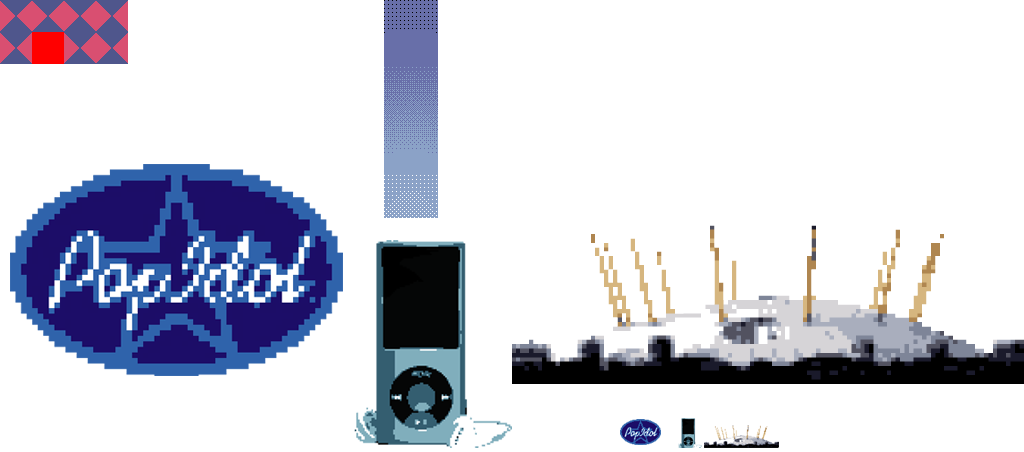
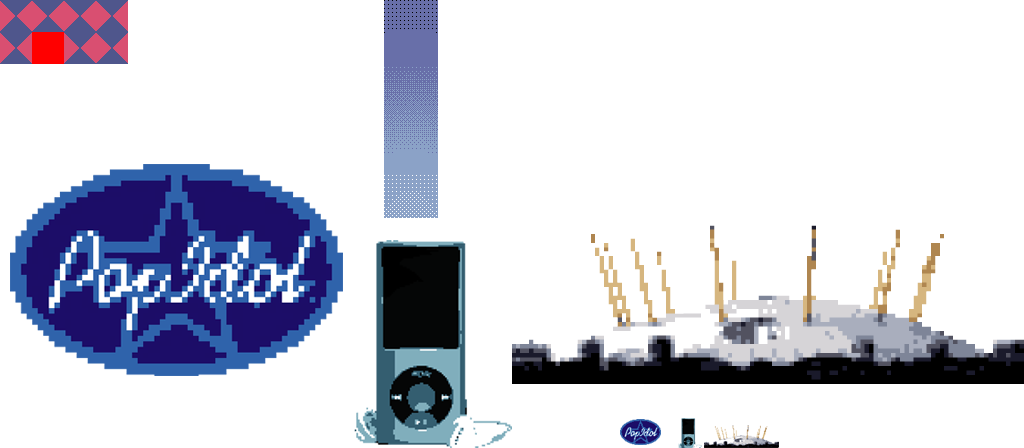
@ekynoxe - Adding some new parallax images for 2000s and 2010s.

diff --git a/queen-feature/src/scripts/state/preloader.js b/queen-feature/src/scripts/state/preloader.js
@@ -84,6 +84,7 @@ Game.State.Preloader.prototype = {
         this.game.load.image('harry_grey', 'assets/sprites/90s_harry_grey.png');
 
         // 2000s assets
+        this.game.load.image('parallax_2000s', 'assets/tiles/parallax_2000s.png');
         this.game.load.image('ipod', 'assets/sprites/2000s_ipod.png');
         this.game.load.image('ipod_grey', 'assets/sprites/2000s_ipod_grey.png');
         this.game.load.image('idol', 'assets/sprites/2000s_pop_idol.png');
@@ -92,6 +93,7 @@ Game.State.Preloader.prototype = {
         this.game.load.image('dome_grey', 'assets/sprites/2000s_dome_grey.png');
 
         // 2010s assets
+        this.game.load.image('parallax_now', 'assets/tiles/parallax_now.png');
         this.game.load.image('olympics', 'assets/sprites/2010s_olympics.png');
         this.game.load.image('olympics_grey', 'assets/sprites/2010s_olympics_grey.png');
         this.game.load.image('selfie', 'assets/sprites/2010s_selfie.png');

diff --git a/queen-feature/src/scripts/state/decade_00s.js b/queen-feature/src/scripts/state/decade_00s.js
@@ -11,7 +11,7 @@ Game.State.Decade_00s.prototype.setCollisions = function() {
 };
 
 Game.State.Decade_00s.prototype.createBackgroundLayers = function() {
-	this.levelModule.parallaxBackground = this.game.add.tileSprite(0, 0, this.game.width, this.game.height, "parallax_1950s");
+	this.levelModule.parallaxBackground = this.game.add.tileSprite(0, 0, this.game.width, this.game.height, "parallax_2000s");
     this.levelModule.parallaxBackground.fixedToCamera = true;
     this.levelModule.createLayer('background');
 };

diff --git a/queen-feature/src/scripts/state/decade_now.js b/queen-feature/src/scripts/state/decade_now.js
@@ -11,7 +11,7 @@ Game.State.Decade_Now.prototype.setCollisions = function() {
 };
 
 Game.State.Decade_Now.prototype.createBackgroundLayers = function() {
-	this.levelModule.parallaxBackground = this.game.add.tileSprite(0, 0, this.game.width, this.game.height, "parallax_1950s");
+	this.levelModule.parallaxBackground = this.game.add.tileSprite(0, 0, this.game.width, this.game.height, "parallax_now");
     this.levelModule.parallaxBackground.fixedToCamera = true;
     this.levelModule.createLayer('background');
 };
